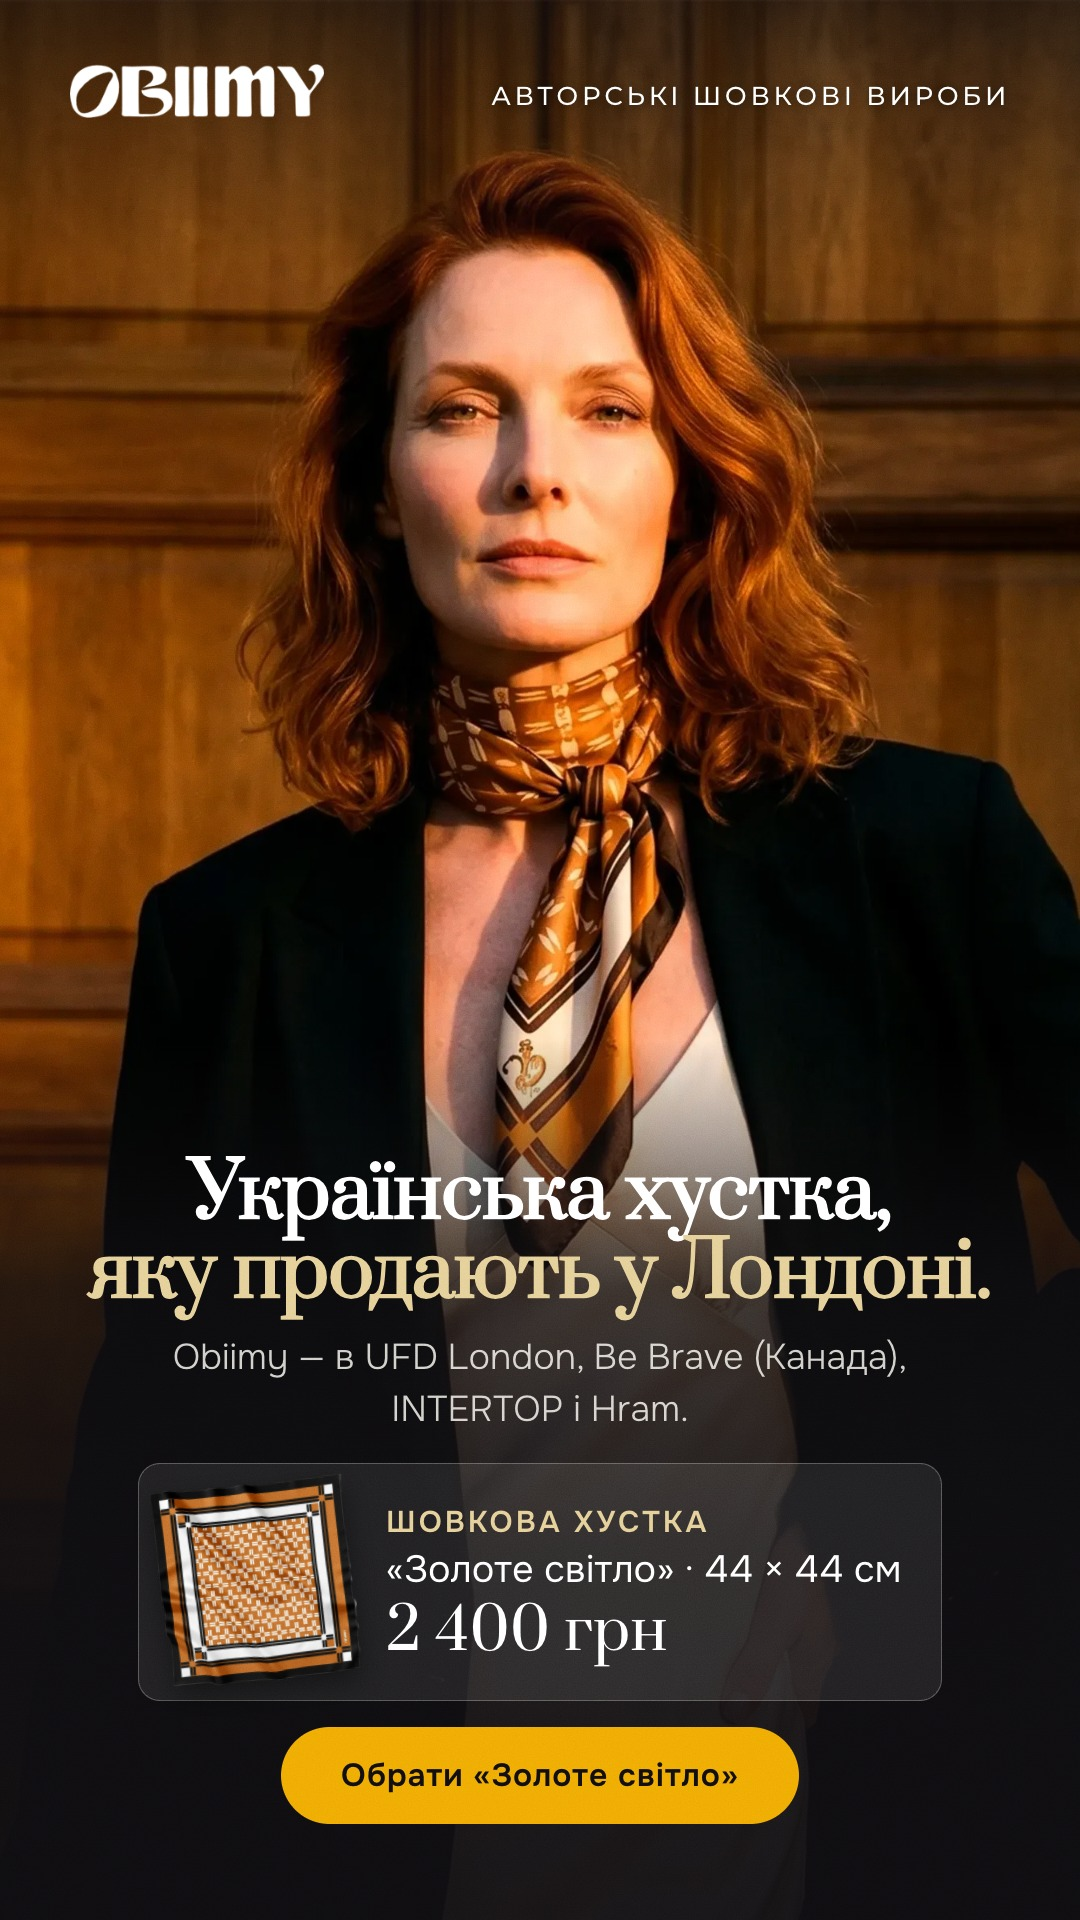
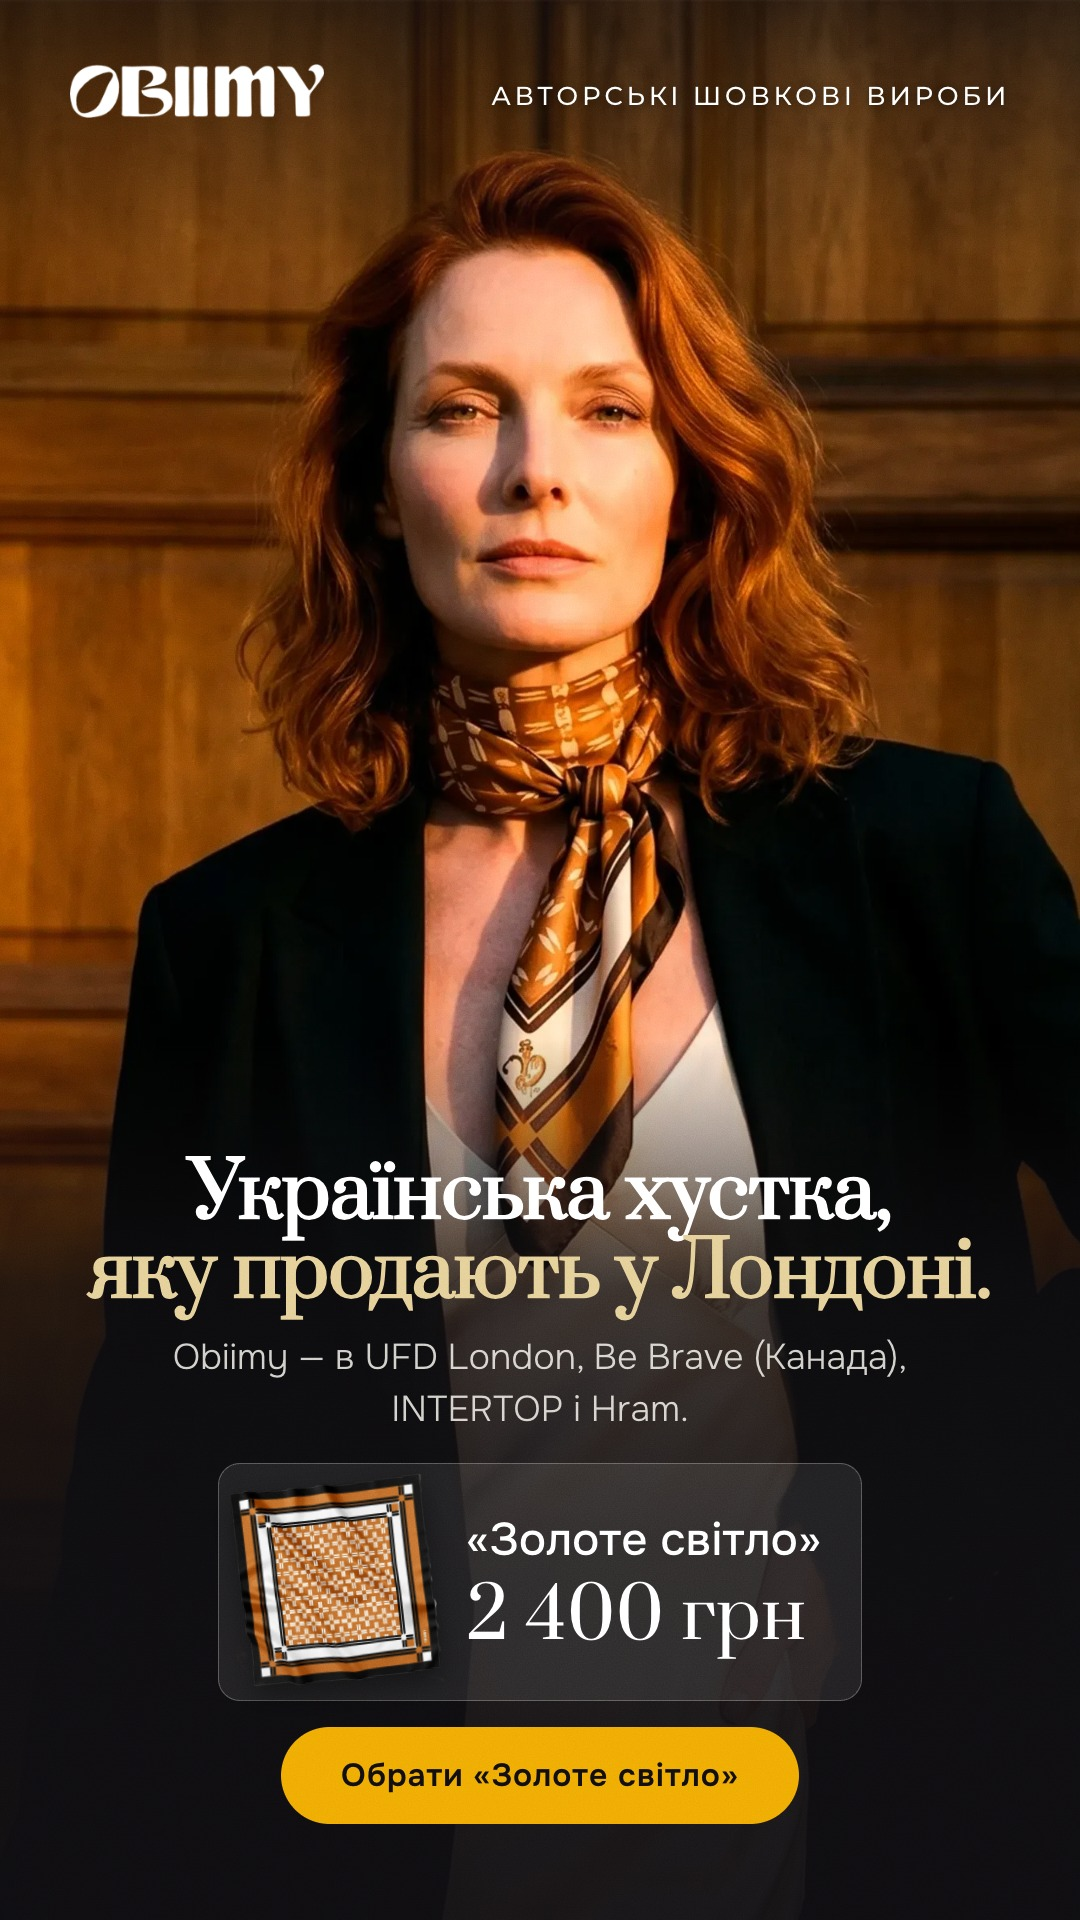
u02: product card with the name and the price only, both larger

Changed region(s): [[0.1222, 0.75, 0.825, 0.875]]

diff --git a/site/creatives.html b/site/creatives.html
@@ -101,8 +101,8 @@ footer { margin-top: 72px; color: var(--ink2); font-size: .85rem; border-top: 1p
         <figcaption><label class="pick"><input type="checkbox" data-id="solo-main/p07-whole-look.jpg"><span>Залишити</span></label><span class="fid">p07</span><a href="creatives/solo-main/p07-whole-look.jpg?v=38e9db4b" download="p07-whole-look.jpg">JPG ↓</a></figcaption></figure><figure class="c st" data-f="st" data-id="solo-main/p11-italian-silk.jpg"><a href="creatives/solo-main/p11-italian-silk.jpg?v=b608ec16" target="_blank" rel="noopener"><img src="creatives/solo-main/p11-italian-silk-540.webp?v=b608ec16" alt="Варіант A · тихий преміум" loading="lazy" width="540" height="960"></a>
         <figcaption><label class="pick"><input type="checkbox" data-id="solo-main/p11-italian-silk.jpg"><span>Залишити</span></label><span class="fid">p11</span><a href="creatives/solo-main/p11-italian-silk.jpg?v=b608ec16" download="p11-italian-silk.jpg">JPG ↓</a></figcaption></figure><figure class="c st" data-f="st" data-id="solo-main/p12-wearable-art.jpg"><a href="creatives/solo-main/p12-wearable-art.jpg?v=04d4a08f" target="_blank" rel="noopener"><img src="creatives/solo-main/p12-wearable-art-540.webp?v=04d4a08f" alt="Варіант A · тихий преміум" loading="lazy" width="540" height="960"></a>
         <figcaption><label class="pick"><input type="checkbox" data-id="solo-main/p12-wearable-art.jpg"><span>Залишити</span></label><span class="fid">p12</span><a href="creatives/solo-main/p12-wearable-art.jpg?v=04d4a08f" download="p12-wearable-art.jpg">JPG ↓</a></figcaption></figure><figure class="c st" data-f="st" data-id="solo-main/p15-iskra.jpg"><a href="creatives/solo-main/p15-iskra.jpg?v=54aba789" target="_blank" rel="noopener"><img src="creatives/solo-main/p15-iskra-540.webp?v=54aba789" alt="Варіант A · тихий преміум" loading="lazy" width="540" height="960"></a>
-        <figcaption><label class="pick"><input type="checkbox" data-id="solo-main/p15-iskra.jpg"><span>Залишити</span></label><span class="fid">p15</span><a href="creatives/solo-main/p15-iskra.jpg?v=54aba789" download="p15-iskra.jpg">JPG ↓</a></figcaption></figure><figure class="c st" data-f="st" data-id="solo-main/u02-london.jpg"><a href="creatives/solo-main/u02-london.jpg?v=b8ef5c1d" target="_blank" rel="noopener"><img src="creatives/solo-main/u02-london-540.webp?v=b8ef5c1d" alt="Варіант A · український преміум" loading="lazy" width="540" height="960"></a>
-        <figcaption><label class="pick"><input type="checkbox" data-id="solo-main/u02-london.jpg"><span>Залишити</span></label><span class="fid">u02</span><a href="creatives/solo-main/u02-london.jpg?v=b8ef5c1d" download="u02-london.jpg">JPG ↓</a></figcaption></figure><figure class="c st" data-f="st" data-id="solo-main/u03-made-in-ua.jpg"><a href="creatives/solo-main/u03-made-in-ua.jpg?v=9a48dc13" target="_blank" rel="noopener"><img src="creatives/solo-main/u03-made-in-ua-540.webp?v=9a48dc13" alt="Варіант A · український преміум" loading="lazy" width="540" height="960"></a>
+        <figcaption><label class="pick"><input type="checkbox" data-id="solo-main/p15-iskra.jpg"><span>Залишити</span></label><span class="fid">p15</span><a href="creatives/solo-main/p15-iskra.jpg?v=54aba789" download="p15-iskra.jpg">JPG ↓</a></figcaption></figure><figure class="c st" data-f="st" data-id="solo-main/u02-london.jpg"><a href="creatives/solo-main/u02-london.jpg?v=49ae0bbc" target="_blank" rel="noopener"><img src="creatives/solo-main/u02-london-540.webp?v=49ae0bbc" alt="Варіант A · український преміум" loading="lazy" width="540" height="960"></a>
+        <figcaption><label class="pick"><input type="checkbox" data-id="solo-main/u02-london.jpg"><span>Залишити</span></label><span class="fid">u02</span><a href="creatives/solo-main/u02-london.jpg?v=49ae0bbc" download="u02-london.jpg">JPG ↓</a></figcaption></figure><figure class="c st" data-f="st" data-id="solo-main/u03-made-in-ua.jpg"><a href="creatives/solo-main/u03-made-in-ua.jpg?v=9a48dc13" target="_blank" rel="noopener"><img src="creatives/solo-main/u03-made-in-ua-540.webp?v=9a48dc13" alt="Варіант A · український преміум" loading="lazy" width="540" height="960"></a>
         <figcaption><label class="pick"><input type="checkbox" data-id="solo-main/u03-made-in-ua.jpg"><span>Залишити</span></label><span class="fid">u03</span><a href="creatives/solo-main/u03-made-in-ua.jpg?v=9a48dc13" download="u03-made-in-ua.jpg">JPG ↓</a></figcaption></figure><figure class="c st" data-f="st" data-id="solo-main/u05-luxury.jpg"><a href="creatives/solo-main/u05-luxury.jpg?v=9126afe5" target="_blank" rel="noopener"><img src="creatives/solo-main/u05-luxury-540.webp?v=9126afe5" alt="Варіант A · український преміум" loading="lazy" width="540" height="960"></a>
         <figcaption><label class="pick"><input type="checkbox" data-id="solo-main/u05-luxury.jpg"><span>Залишити</span></label><span class="fid">u05</span><a href="creatives/solo-main/u05-luxury.jpg?v=9126afe5" download="u05-luxury.jpg">JPG ↓</a></figcaption></figure><figure class="c st" data-f="st" data-id="solo-main/c02-iskra.jpg"><a href="creatives/solo-main/c02-iskra.jpg?v=fadee0c8" target="_blank" rel="noopener"><img src="creatives/solo-main/c02-iskra-540.webp?v=fadee0c8" alt="Варіант A · повноекранні" loading="lazy" width="540" height="960"></a>
         <figcaption><label class="pick"><input type="checkbox" data-id="solo-main/c02-iskra.jpg"><span>Залишити</span></label><span class="fid">c02</span><a href="creatives/solo-main/c02-iskra.jpg?v=fadee0c8" download="c02-iskra.jpg">JPG ↓</a></figcaption></figure><figure class="c st" data-f="st" data-id="solo-main/c05-zolote.jpg"><a href="creatives/solo-main/c05-zolote.jpg?v=4241e29b" target="_blank" rel="noopener"><img src="creatives/solo-main/c05-zolote-540.webp?v=4241e29b" alt="Варіант A · повноекранні" loading="lazy" width="540" height="960"></a>

diff --git a/ads/solo/solo4.html b/ads/solo/solo4.html
@@ -427,8 +427,8 @@ body { margin: 0; background: #666; font-family: 'Onest', 'Helvetica Neue', Aria
     <p class="body" style="position:static;margin-top:18px;max-width:900px">Obiimy — в UFD London, Be Brave (Канада), INTERTOP і Hram.</p>
     <div style="display:flex;align-items:center;gap:32px;margin-top:28px;padding:18px 40px 18px 20px;border-radius:22px;background:rgba(244,242,237,.1);border:1.5px solid rgba(244,242,237,.3);text-align:left;box-shadow:none">
       <div style="display:flex;align-items:center;flex:none"><img src="src/zolote-44-1-cut.webp" alt="" style="height:200px;width:auto;max-width:220px;object-fit:contain;margin-left:0px;filter:drop-shadow(0 12px 14px rgba(0,0,0,.4));transform:rotate(-6deg)"></div>
-      <div><p style="font-size:30px;letter-spacing:.1em;text-transform:uppercase;font-weight:700;color:#E9D7A6">Шовкова хустка</p>
-        <p style="font-size:38px;line-height:1.2;color:#fff;margin-top:6px;font-weight:400">«Золоте світло» · 44 × 44 см</p><p style="font-family:Prata,serif;font-size:58px;line-height:1;color:#fff;margin-top:10px">2 400 грн</p></div></div>
+      <div>
+        <p style="font-size:46px;line-height:1.2;color:#fff;margin-top:0px;font-weight:500">«Золоте світло»</p><p style="font-family:Prata,serif;font-size:70px;line-height:1;color:#fff;margin-top:14px">2 400 грн</p></div></div>
     <div class="cta" style="position:static;transform:none;margin-top:26px">Обрати «Золоте світло»</div>
   </div>
 </section>

diff --git a/ads/solo/build4.py b/ads/solo/build4.py
@@ -77,7 +77,7 @@ PROD = {
     "c12-hair": (["avantiura-tw-5"], "Шовкова твіллі", "«Авантюра»"),
     "c13-parts": (["avantiura-88-1"], "Шовкова хустка", "«Авантюра» · 88 × 88 см"),
     "u01-buy-ukrainian": (["flirt-tw-5"], "Шовкова твіллі", "«Флірт»"),
-    "u02-london": (["zolote-44-1"], "Шовкова хустка", "«Золоте світло» · 44 × 44 см"),
+    "u02-london": (["zolote-44-1"], "", "«Золоте світло»"),
     "u03-made-in-ua": (["krok-44-1"], "Шовкова хустка", "«Сміливий крок» · 44 × 44 см"),
     "u04-not-mass": (["puls-tw-4"], "Шовкова твіллі", "«Пульс»"),
     "u05-luxury": (["tysha-88-1"], "Шовкова хустка", "«Тиша всередині» · 88 × 88 см"),
@@ -104,11 +104,12 @@ def product_card(id, price_main, price_small):
         bg, bd, c1, c2, c3 = "#F2B705", "none", "#141216", "#141216", "#141216"
     else:
         bg, bd, c1, c2, c3 = "rgba(244,242,237,.1)", "1.5px solid rgba(244,242,237,.3)", "#E9D7A6", "#fff", "#fff"
-    price = f'<p style="font-family:Prata,serif;font-size:58px;line-height:1;color:{c3};margin-top:10px">{price_main}</p>' if price_main else ""
+    big = not kind      # only the name and the price: both a step larger
+    price = f'<p style="font-family:Prata,serif;font-size:{70 if big else 58}px;line-height:1;color:{c3};margin-top:{14 if big else 10}px">{price_main}</p>' if price_main else ""
     return f"""<div style="display:flex;align-items:center;gap:32px;margin-top:28px;padding:18px 40px 18px 20px;border-radius:{6 if YELLOW else 22}px;background:{bg};border:{bd};text-align:left;box-shadow:{"0 20px 40px -20px rgba(0,0,0,.6)" if YELLOW else "none"}">
       <div style="display:flex;align-items:center;flex:none">{imgs}</div>
-      <div><p style="font-size:30px;letter-spacing:.1em;text-transform:uppercase;font-weight:700;color:{c1}">{kind}</p>
-        <p style="font-size:38px;line-height:1.2;color:{c2};margin-top:6px;font-weight:{500 if YELLOW else 400}">{name}</p>{price}</div></div>"""
+      <div>{f'<p style="font-size:30px;letter-spacing:.1em;text-transform:uppercase;font-weight:700;color:{c1}">{kind}</p>' if kind else ""}
+        <p style="font-size:{46 if big else 38}px;line-height:1.2;color:{c2};margin-top:{0 if big else 6}px;font-weight:{500 if (YELLOW or big) else 400}">{name}</p>{price}</div></div>"""
 
 LOCKUP = ('<span style="display:block;font-family:Montserrat,sans-serif;text-transform:uppercase;line-height:1;color:#fff">'
           '<span style="display:block;font-size:40px;font-weight:400">Колекція</span>'
